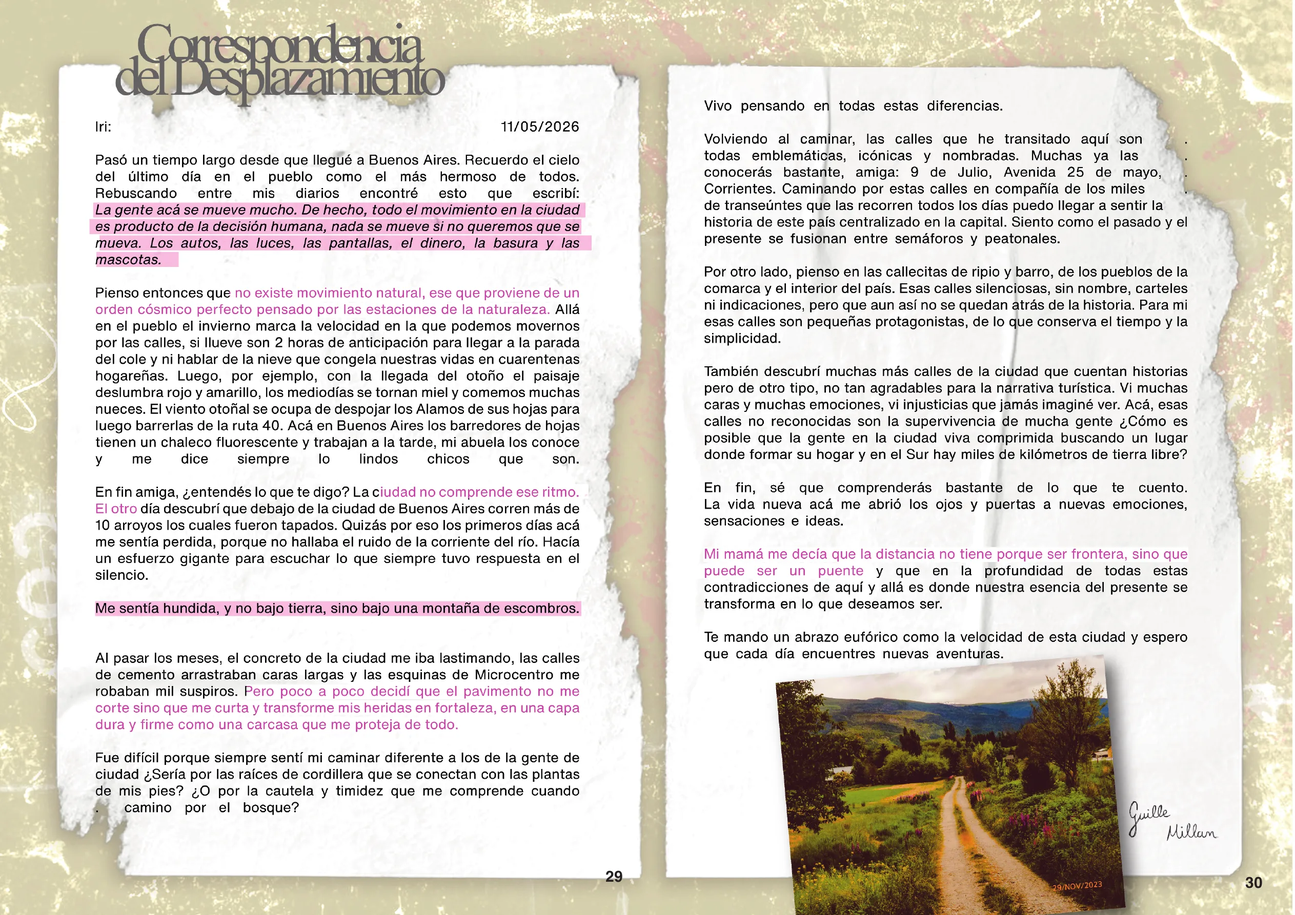
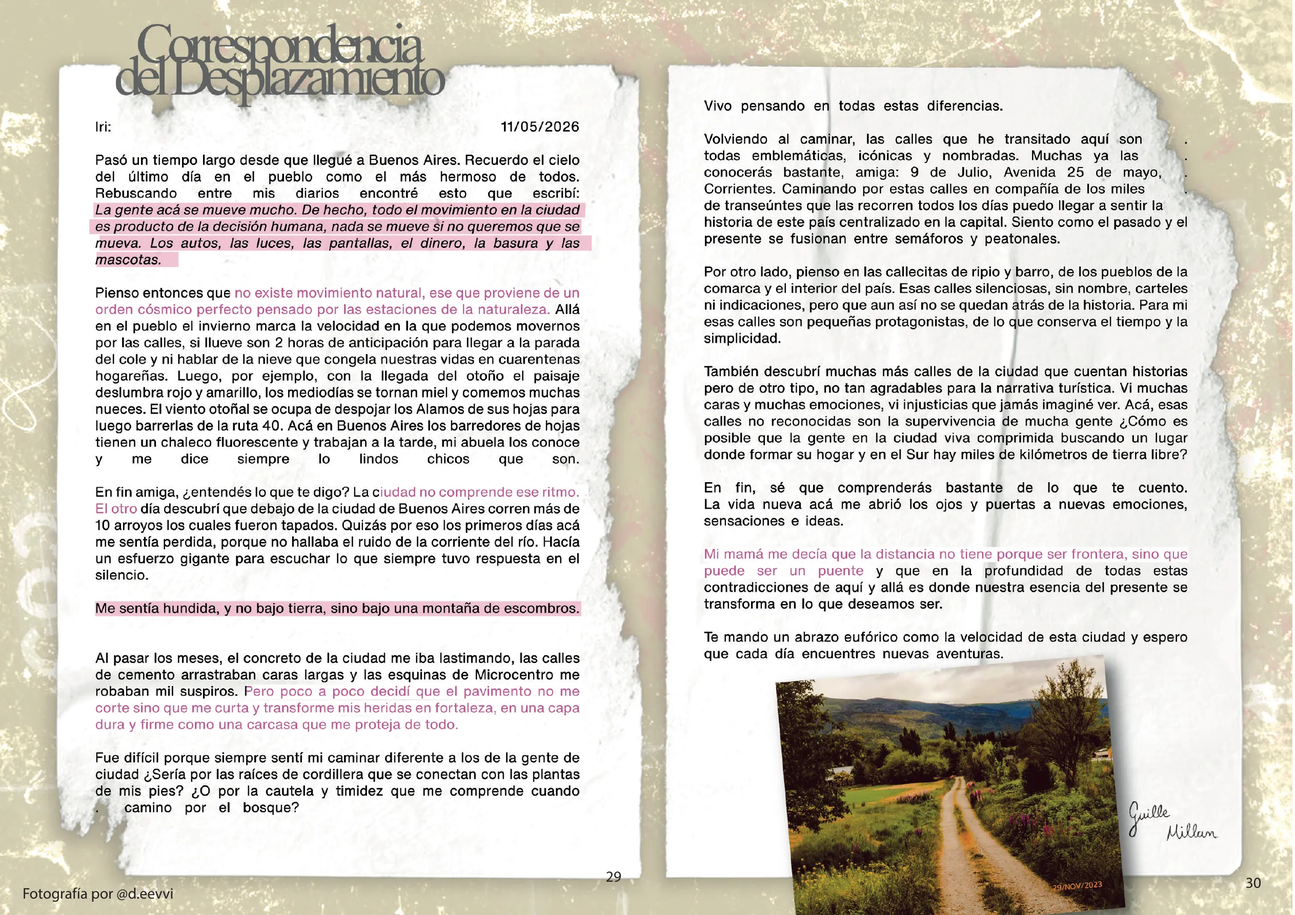
Corrige contraste del botón hamburguesa y actualiza página 16 de La calle desktop
- El ícono de menú usaba var(--navy), casi invisible sobre el fondo oscuro del hero; ahora usa off-white como el logo.
- Actualiza page-16.webp con el crédito de foto agregado en la edición nueva del PDF.

Claude-Session: https://claude.ai/code/session_01Kw53F3PLFiDSDySvpZ72YH

diff --git a/app/globals.css b/app/globals.css
@@ -1489,12 +1489,8 @@ body::after {
   display: block;
   height: 2px;
   width: 100%;
-  background: var(--navy);
-  transition: transform 0.3s ease, opacity 0.2s ease, background 0.4s;
-}
-
-.nav.scrolled .nav-menu-btn span {
   background: var(--off-white);
+  transition: transform 0.3s ease, opacity 0.2s ease, background 0.4s;
 }
 
 .nav-menu-btn.is-open span {
